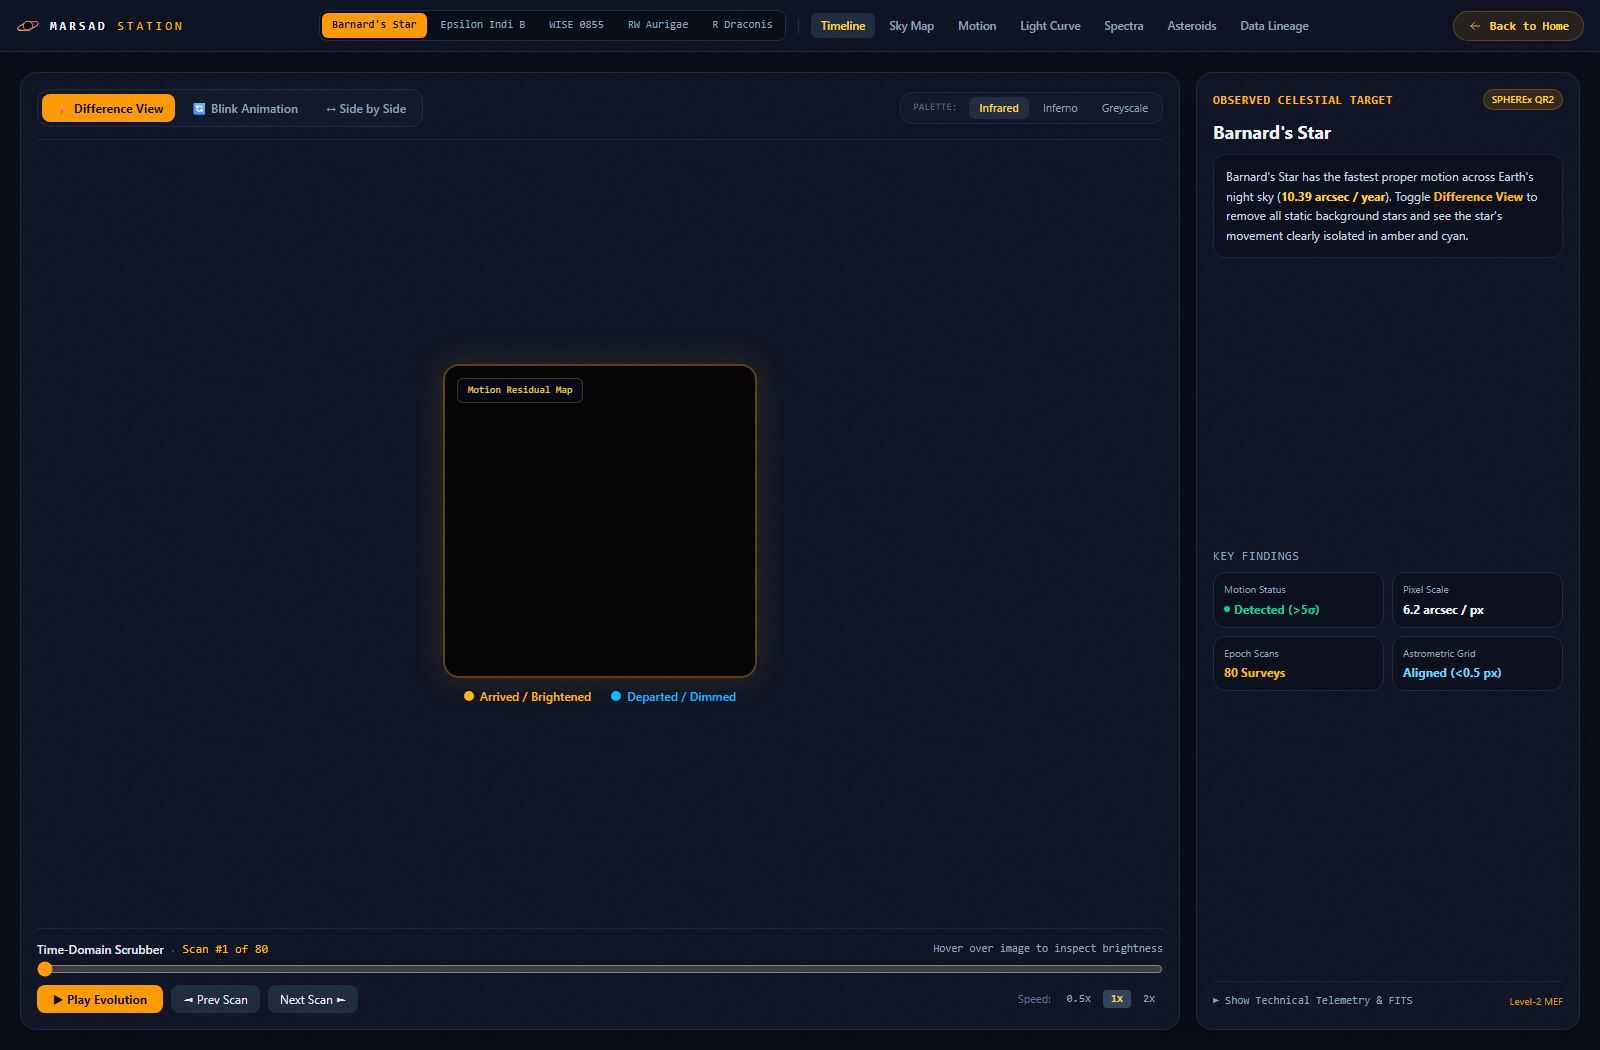
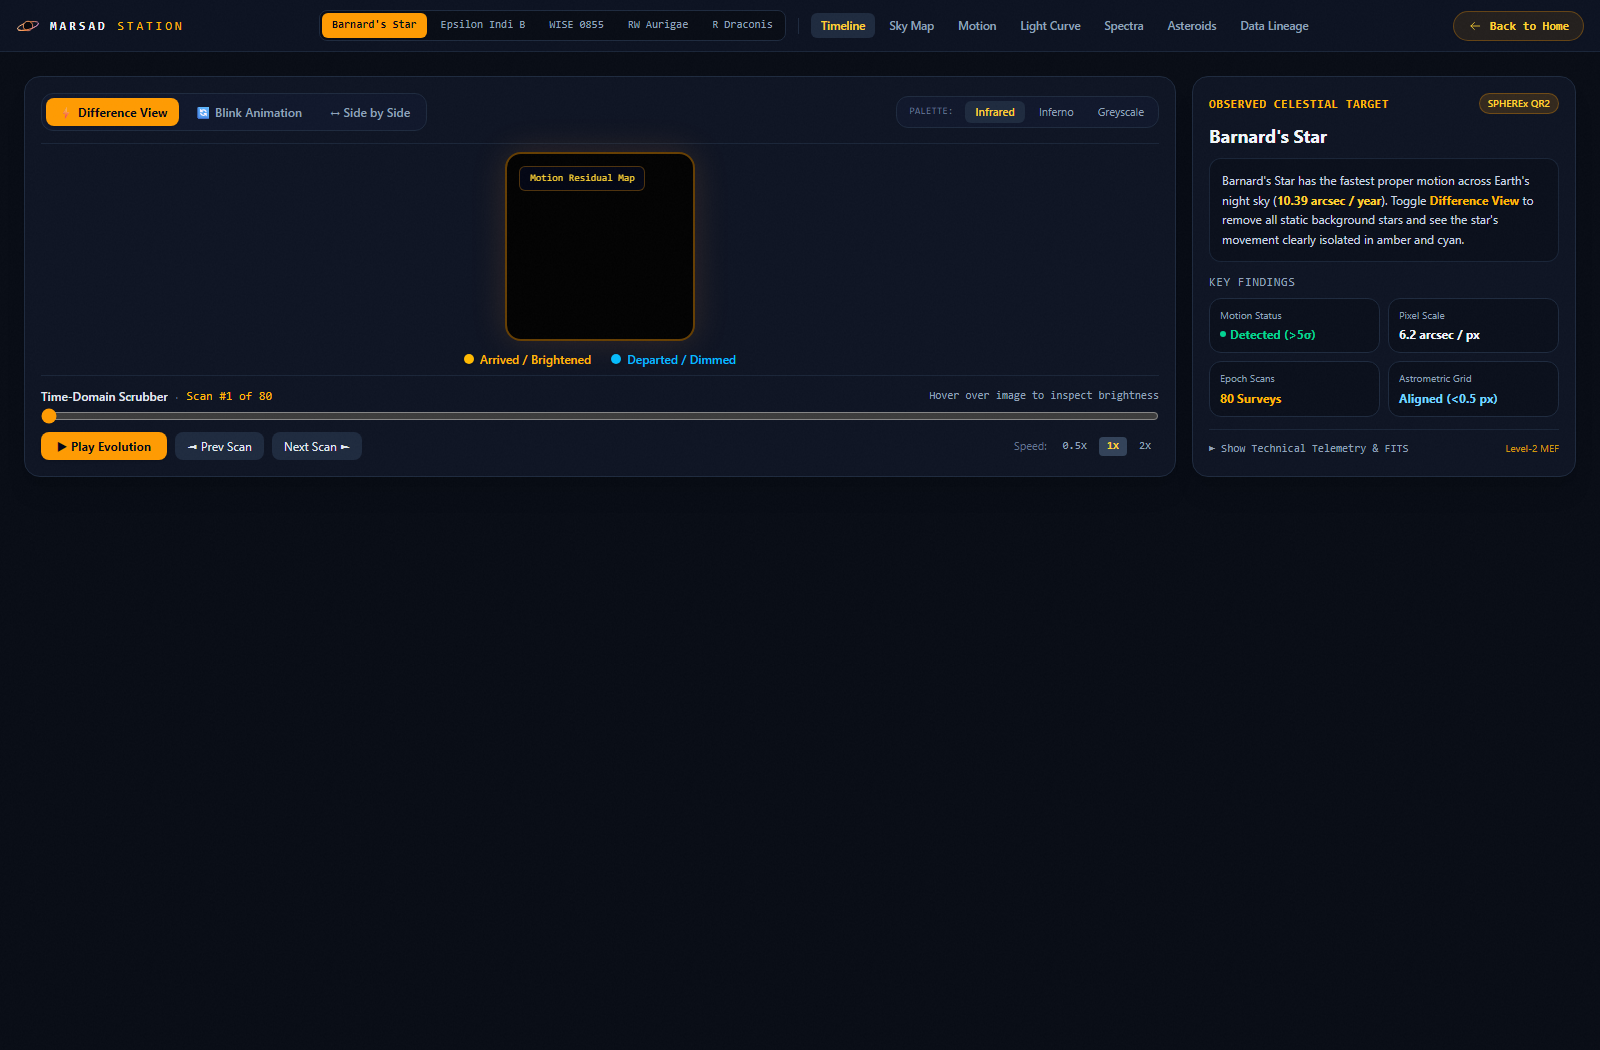
fix(ux): enable smooth natural scrolling by removing rigid overflow locks

diff --git a/src/components/spherex/AladinSkyExplorer.tsx b/src/components/spherex/AladinSkyExplorer.tsx
@@ -243,32 +243,32 @@ export default function AladinSkyExplorer({ target, onSelectTarget }: SkyExplore
   };
 
   return (
-    <div className="rounded-xl border border-white/10 bg-ink-2 shadow-2xl overflow-hidden">
+    <div className="h-full w-full flex flex-col rounded-2xl border border-slate-800 bg-[#0d1322] shadow-xl overflow-hidden">
       {/* Top Controls Header */}
-      <div className="flex flex-wrap items-center justify-between border-b border-white/10 bg-ink px-4 py-3 text-xs gap-3">
+      <div className="h-12 shrink-0 border-b border-slate-800 bg-[#0b1120] px-4 flex items-center justify-between text-xs gap-3">
         <div className="flex items-center gap-3">
-          <span className="flex h-2.5 w-2.5 rounded-full bg-ember shadow-[0_0_8px_#ff8a3d] animate-pulse" />
-          <span className="font-mono text-xs uppercase tracking-wider text-bone font-semibold">
+          <span className="flex h-2.5 w-2.5 rounded-full bg-amber-400 shadow-[0_0_8px_rgba(251,191,36,0.8)] animate-pulse" />
+          <span className="font-mono text-xs uppercase tracking-wider text-slate-100 font-semibold">
             Aladin Lite v3 Celestial Sky Map
           </span>
-          <span className="text-mist">·</span>
-          <span className="rounded bg-ember/10 border border-ember/30 px-2 py-0.5 font-mono text-[10px] text-ember-soft">
+          <span className="text-slate-600">·</span>
+          <span className="rounded bg-amber-500/10 border border-amber-500/30 px-2 py-0.5 font-mono text-[10px] text-amber-300">
             {target.name} ({target.raSexagesimal}, {target.decSexagesimal})
           </span>
         </div>
 
         {/* Survey Layer Selector Tabs */}
-        <div className="flex flex-wrap items-center gap-1.5">
-          <span className="font-mono text-[10px] text-mist uppercase mr-1">Survey:</span>
+        <div className="flex items-center gap-1.5">
+          <span className="font-mono text-[10px] text-slate-400 uppercase mr-1 hidden sm:inline">Survey:</span>
           {SURVEYS.map((s) => (
             <button
               key={s.id}
               onClick={() => switchSurvey(s.id)}
               className={cn(
-                "rounded px-2.5 py-1 font-mono text-[10px] transition-all",
+                "rounded px-2.5 py-1 font-mono text-[10px] transition-all cursor-pointer",
                 activeSurvey === s.id
-                  ? "bg-ember text-ink font-bold shadow-[0_0_8px_rgba(255,138,61,0.3)]"
-                  : "bg-white/5 text-mist hover:text-bone hover:bg-white/10"
+                  ? "bg-amber-500 text-slate-950 font-bold shadow-xs"
+                  : "bg-slate-800/80 text-slate-400 hover:text-slate-200 hover:bg-slate-800"
               )}
               title={s.desc}
             >
@@ -286,23 +286,23 @@ export default function AladinSkyExplorer({ target, onSelectTarget }: SkyExplore
               if (aladinInstanceRef.current) updateOverlays(aladinInstanceRef.current);
             }}
             className={cn(
-              "rounded px-2.5 py-1 font-mono text-[10px] transition-colors",
-              showFootprint ? "bg-ember/20 text-ember border border-ember/40" : "bg-white/5 text-mist"
+              "rounded px-2.5 py-1 font-mono text-[10px] transition-colors cursor-pointer",
+              showFootprint ? "bg-amber-500/20 text-amber-300 border border-amber-500/40 font-semibold" : "bg-slate-800 text-slate-400 hover:text-slate-200"
             )}
           >
             SPHEREx Footprint
           </button>
-          <div className="h-4 w-px bg-white/10" />
+          <div className="h-4 w-px bg-slate-800" />
           <button
             onClick={() => handleZoom(1.5)}
-            className="rounded bg-white/5 px-2.5 py-1 font-mono text-xs text-bone hover:bg-white/10"
+            className="rounded bg-slate-800 px-2.5 py-1 font-mono text-xs text-slate-200 hover:bg-slate-700 cursor-pointer"
             title="Zoom In"
           >
             +
           </button>
           <button
             onClick={() => handleZoom(0.7)}
-            className="rounded bg-white/5 px-2.5 py-1 font-mono text-xs text-bone hover:bg-white/10"
+            className="rounded bg-slate-800 px-2.5 py-1 font-mono text-xs text-slate-200 hover:bg-slate-700 cursor-pointer"
             title="Zoom Out"
           >
             −
@@ -314,7 +314,7 @@ export default function AladinSkyExplorer({ target, onSelectTarget }: SkyExplore
                 aladinInstanceRef.current.setFov(0.25);
               }
             }}
-            className="rounded bg-white/5 px-2.5 py-1 font-mono text-[10px] text-mist hover:text-bone"
+            className="rounded bg-slate-800 px-2.5 py-1 font-mono text-[10px] text-slate-300 hover:text-slate-100 cursor-pointer"
             title="Recenter on Target"
           >
             Recenter
@@ -323,7 +323,7 @@ export default function AladinSkyExplorer({ target, onSelectTarget }: SkyExplore
       </div>
 
       {/* Main Aladin Lite Viewport Canvas */}
-      <div className="relative h-[540px] w-full bg-[#05060a]">
+      <div className="flex-1 min-h-0 relative w-full bg-[#05060a]">
         {/* Aladin Div Container */}
         <div
           ref={aladinContainerRef}
@@ -334,26 +334,26 @@ export default function AladinSkyExplorer({ target, onSelectTarget }: SkyExplore
 
         {/* Fallback Viewport if Aladin CDN fails or is offline */}
         {loadError && (
-          <div className="absolute inset-0 flex flex-col items-center justify-center p-6 bg-ink/95 backdrop-blur-xs text-center z-20">
-            <div className="max-w-md rounded-xl border border-ember/40 bg-ink-2 p-6 shadow-2xl">
-              <span className="font-mono text-xs uppercase tracking-wider text-ember">
+          <div className="absolute inset-0 flex flex-col items-center justify-center p-6 bg-[#090e1a]/95 backdrop-blur-xs text-center z-20">
+            <div className="max-w-md rounded-xl border border-amber-500/40 bg-[#0d1322] p-6 shadow-2xl">
+              <span className="font-mono text-xs uppercase tracking-wider text-amber-400">
                 Archival Survey Mode Active
               </span>
-              <h4 className="mt-2 font-serif text-xl text-bone">
+              <h4 className="mt-2 font-serif text-xl text-slate-100">
                 Real All-Sky Survey: 2MASS Near-Infrared
               </h4>
-              <p className="mt-2 text-xs text-mist leading-relaxed font-sans">
+              <p className="mt-2 text-xs text-slate-400 leading-relaxed font-sans">
                 {loadError}
               </p>
-              <div className="mt-4 rounded border border-white/10 bg-black/60 p-3 font-mono text-[11px] text-left text-mist space-y-1">
-                <div>Target: <span className="text-bone">{target.name}</span></div>
-                <div>Coordinates (J2000): <span className="text-ember">{target.raSexagesimal} {target.decSexagesimal}</span></div>
-                <div>Survey Baseline: <span className="text-bone">2MASS J/H/Ks (1.2 - 2.2 µm)</span></div>
-                <div>SPHEREx Pixel Scale: <span className="text-ion">6.2 arcsec / pixel</span></div>
+              <div className="mt-4 rounded border border-slate-800 bg-black/60 p-3 font-mono text-[11px] text-left text-slate-400 space-y-1">
+                <div>Target: <span className="text-slate-200">{target.name}</span></div>
+                <div>Coordinates (J2000): <span className="text-amber-400">{target.raSexagesimal} {target.decSexagesimal}</span></div>
+                <div>Survey Baseline: <span className="text-slate-200">2MASS J/H/Ks (1.2 - 2.2 µm)</span></div>
+                <div>SPHEREx Pixel Scale: <span className="text-sky-300">6.2 arcsec / pixel</span></div>
               </div>
               <button
                 onClick={() => window.open(`https://aladin.cds.unistra.fr/AladinLite/?target=${encodeURIComponent(target.name)}&survey=${encodeURIComponent(activeSurvey)}`, "_blank")}
-                className="mt-4 inline-flex items-center gap-2 rounded bg-ember px-4 py-2 font-mono text-xs font-bold text-ink hover:bg-ember-soft transition-colors"
+                className="mt-4 inline-flex items-center gap-2 rounded bg-amber-500 px-4 py-2 font-mono text-xs font-bold text-slate-950 hover:bg-amber-400 transition-colors cursor-pointer"
               >
                 Open Full CDS Sky Atlas In New Tab ↗
               </button>
@@ -362,17 +362,17 @@ export default function AladinSkyExplorer({ target, onSelectTarget }: SkyExplore
         )}
 
         {/* Floating Astrometric Coordinate & Survey HUD */}
-        <div className="absolute bottom-4 left-4 z-10 rounded-lg border border-white/15 bg-ink/90 px-3.5 py-2 backdrop-blur-md shadow-xl text-xs font-mono">
-          <div className="flex items-center gap-2 text-bone font-medium">
-            <span className="h-1.5 w-1.5 rounded-full bg-ion" />
+        <div className="absolute bottom-4 left-4 z-10 rounded-lg border border-slate-800 bg-[#0d1322]/90 px-3.5 py-2 backdrop-blur-md shadow-xl text-xs font-mono">
+          <div className="flex items-center gap-2 text-slate-200 font-medium">
+            <span className="h-1.5 w-1.5 rounded-full bg-sky-400" />
             <span>Target: {target.name}</span>
           </div>
-          <div className="mt-1 flex items-center gap-3 text-[10px] text-mist">
-            <span>RA: <strong className="text-bone">{target.raSexagesimal}</strong></span>
-            <span>Dec: <strong className="text-bone">{target.decSexagesimal}</strong></span>
-            <span>FOV: <strong className="text-ember">{fovDegrees.toFixed(3)}°</strong></span>
+          <div className="mt-1 flex items-center gap-3 text-[10px] text-slate-400">
+            <span>RA: <strong className="text-slate-200">{target.raSexagesimal}</strong></span>
+            <span>Dec: <strong className="text-slate-200">{target.decSexagesimal}</strong></span>
+            <span>FOV: <strong className="text-amber-400">{fovDegrees.toFixed(3)}°</strong></span>
           </div>
-          <div className="mt-1 pt-1 border-t border-white/10 text-[9px] text-ember-soft">
+          <div className="mt-1 pt-1 border-t border-slate-800 text-[9px] text-amber-300">
             Active Layer: {SURVEYS.find(s => s.id === activeSurvey)?.name}
           </div>
         </div>
@@ -390,10 +390,10 @@ export default function AladinSkyExplorer({ target, onSelectTarget }: SkyExplore
               key={t.id}
               onClick={() => onSelectTarget && onSelectTarget(t.id)}
               className={cn(
-                "rounded px-2.5 py-1 text-left font-mono text-[10px] backdrop-blur-md transition-all shadow-md",
+                "rounded px-2.5 py-1 text-left font-mono text-[10px] backdrop-blur-md transition-all shadow-md cursor-pointer",
                 target.id === t.id
-                  ? "bg-ember text-ink font-bold border border-ember"
-                  : "bg-ink/80 text-bone hover:bg-ink hover:border-white/20 border border-white/10"
+                  ? "bg-amber-500 text-slate-950 font-bold border border-amber-500"
+                  : "bg-[#0d1322]/80 text-slate-300 hover:text-slate-100 hover:bg-[#0d1322] border border-slate-800"
               )}
             >
               {t.name}
@@ -403,22 +403,22 @@ export default function AladinSkyExplorer({ target, onSelectTarget }: SkyExplore
       </div>
 
       {/* Survey Information & Scientific Legend Footer */}
-      <div className="border-t border-white/10 bg-ink-3 px-4 py-3 text-xs font-mono text-mist flex flex-wrap items-center justify-between gap-4">
+      <div className="h-10 shrink-0 border-t border-slate-800 bg-[#0b1120] px-4 text-xs font-mono text-slate-400 flex items-center justify-between gap-4">
         <div className="flex items-center gap-4">
-          <span className="flex items-center gap-1.5">
-            <span className="h-2 w-2 rounded-full border border-ember bg-ember/30" />
-            SPHEREx 6.2"/pix Detector Footprint
+          <span className="flex items-center gap-1.5 text-[11px]">
+            <span className="h-2 w-2 rounded-full border border-amber-500 bg-amber-500/30" />
+            SPHEREx 6.2"/pix Footprint
           </span>
-          <span className="flex items-center gap-1.5">
-            <span className="h-2 w-2 rounded-full bg-ion" />
-            J2000 Astrometric Center
+          <span className="flex items-center gap-1.5 text-[11px]">
+            <span className="h-2 w-2 rounded-full bg-sky-400" />
+            J2000 Center
           </span>
-          <span className="text-bone">
-            Survey Mode: <span className="text-ember-soft font-semibold">{SURVEYS.find(s => s.id === activeSurvey)?.band}</span>
+          <span className="text-slate-300 text-[11px]">
+            Survey: <span className="text-amber-300 font-semibold">{SURVEYS.find(s => s.id === activeSurvey)?.band}</span>
           </span>
         </div>
-        <div className="text-[10px] text-mist">
-          Data Engine: <span className="text-bone">CDS Strasbourg Aladin Lite v3 · HiPS All-Sky Multi-Resolution Survey</span>
+        <div className="text-[10px] text-slate-500 hidden sm:block">
+          Data: CDS Strasbourg Aladin Lite v3 · HiPS All-Sky Multi-Resolution
         </div>
       </div>
     </div>

diff --git a/src/components/spherex/ObservationTimelineComparator.tsx b/src/components/spherex/ObservationTimelineComparator.tsx
@@ -230,12 +230,12 @@ export default function ObservationTimelineComparator({ targetId, targetName, ob
   };
 
   return (
-    <div className="h-full w-full flex flex-col md:flex-row gap-4 p-2 overflow-hidden select-none">
+    <div className="w-full flex flex-col xl:flex-row gap-4 p-1 sm:p-2">
       
       {/* ═════════════════════════════════════════════════════════════════════
           LEFT AREA (HERO VIEWPORT & TIMELINE - 68% WIDTH)
       ═════════════════════════════════════════════════════════════════════ */}
-      <div className="flex-1 flex flex-col justify-between rounded-2xl border border-slate-800 bg-[#0d1322] p-4 min-h-0 overflow-hidden shadow-xl">
+      <div className="flex-1 flex flex-col justify-between rounded-2xl border border-slate-800 bg-[#0d1322] p-4 shadow-xl">
         
         {/* TOP BAR: Clean Mode Toggle & Color Style */}
         <div className="flex items-center justify-between gap-3 pb-3 border-b border-slate-800/80 shrink-0">
@@ -465,7 +465,7 @@ export default function ObservationTimelineComparator({ targetId, targetName, ob
       {/* ═════════════════════════════════════════════════════════════════════
           RIGHT AREA (FRIENDLY INSIGHTS & EXPLANATIONS - 32% WIDTH)
       ═════════════════════════════════════════════════════════════════════ */}
-      <div className="w-full md:w-80 lg:w-96 flex flex-col justify-between rounded-2xl border border-slate-800 bg-[#0d1322] p-4 min-h-0 overflow-y-auto shadow-xl space-y-3">
+      <div className="w-full xl:w-96 flex flex-col justify-between rounded-2xl border border-slate-800 bg-[#0d1322] p-4 shadow-xl space-y-3 shrink-0">
         
         {/* SECTION 1: Target Identity & Clear Plain-Language Story */}
         <div className="space-y-2">

diff --git a/src/components/spherex/SpherexHub.tsx b/src/components/spherex/SpherexHub.tsx
@@ -232,7 +232,7 @@ export default function SpherexHub() {
   }, [tourStep]);
 
   return (
-    <section id="spherex-hub" className="h-full w-full flex flex-col bg-[#070b14] text-slate-100 overflow-hidden select-none">
+    <section id="spherex-hub" className="min-h-screen w-full flex flex-col bg-[#070b14] text-slate-100">
       {/* ── UNIFIED MINIMALIST TOP BAR (Height: 52px) ── */}
       <header className="h-13 shrink-0 border-b border-slate-800/80 bg-[#0b1120] px-4 flex items-center justify-between gap-4 z-30">
         
@@ -358,8 +358,8 @@ export default function SpherexHub() {
         </div>
       )}
 
-      {/* ── WORKSTATION VIEWPORT (ROW 3, flex-1, overflow-hidden) ── */}
-      <main className="flex-1 min-h-0 overflow-hidden p-3 relative">
+      {/* ── WORKSTATION VIEWPORT (ROW 2, flex-1) ── */}
+      <main className="flex-1 p-3 sm:p-4 relative">
         {activeTab === "timeline" && (
           <ObservationTimelineComparator
             targetId={selectedTargetId}

diff --git a/src/pages/ExperiencePage.tsx b/src/pages/ExperiencePage.tsx
@@ -3,7 +3,7 @@ import SpherexHub from "../components/spherex/SpherexHub";
 
 export default function ExperiencePage() {
   return (
-    <div className="h-screen w-screen overflow-hidden bg-[#070b14] text-slate-100 font-sans antialiased selection:bg-amber-500 selection:text-slate-950 flex flex-col">
+    <div className="min-h-screen w-full bg-[#070b14] text-slate-100 font-sans antialiased selection:bg-amber-500 selection:text-slate-950 flex flex-col">
       <FluidCursor />
       <div className="grain pointer-events-none" aria-hidden="true" />
       <SpherexHub />
